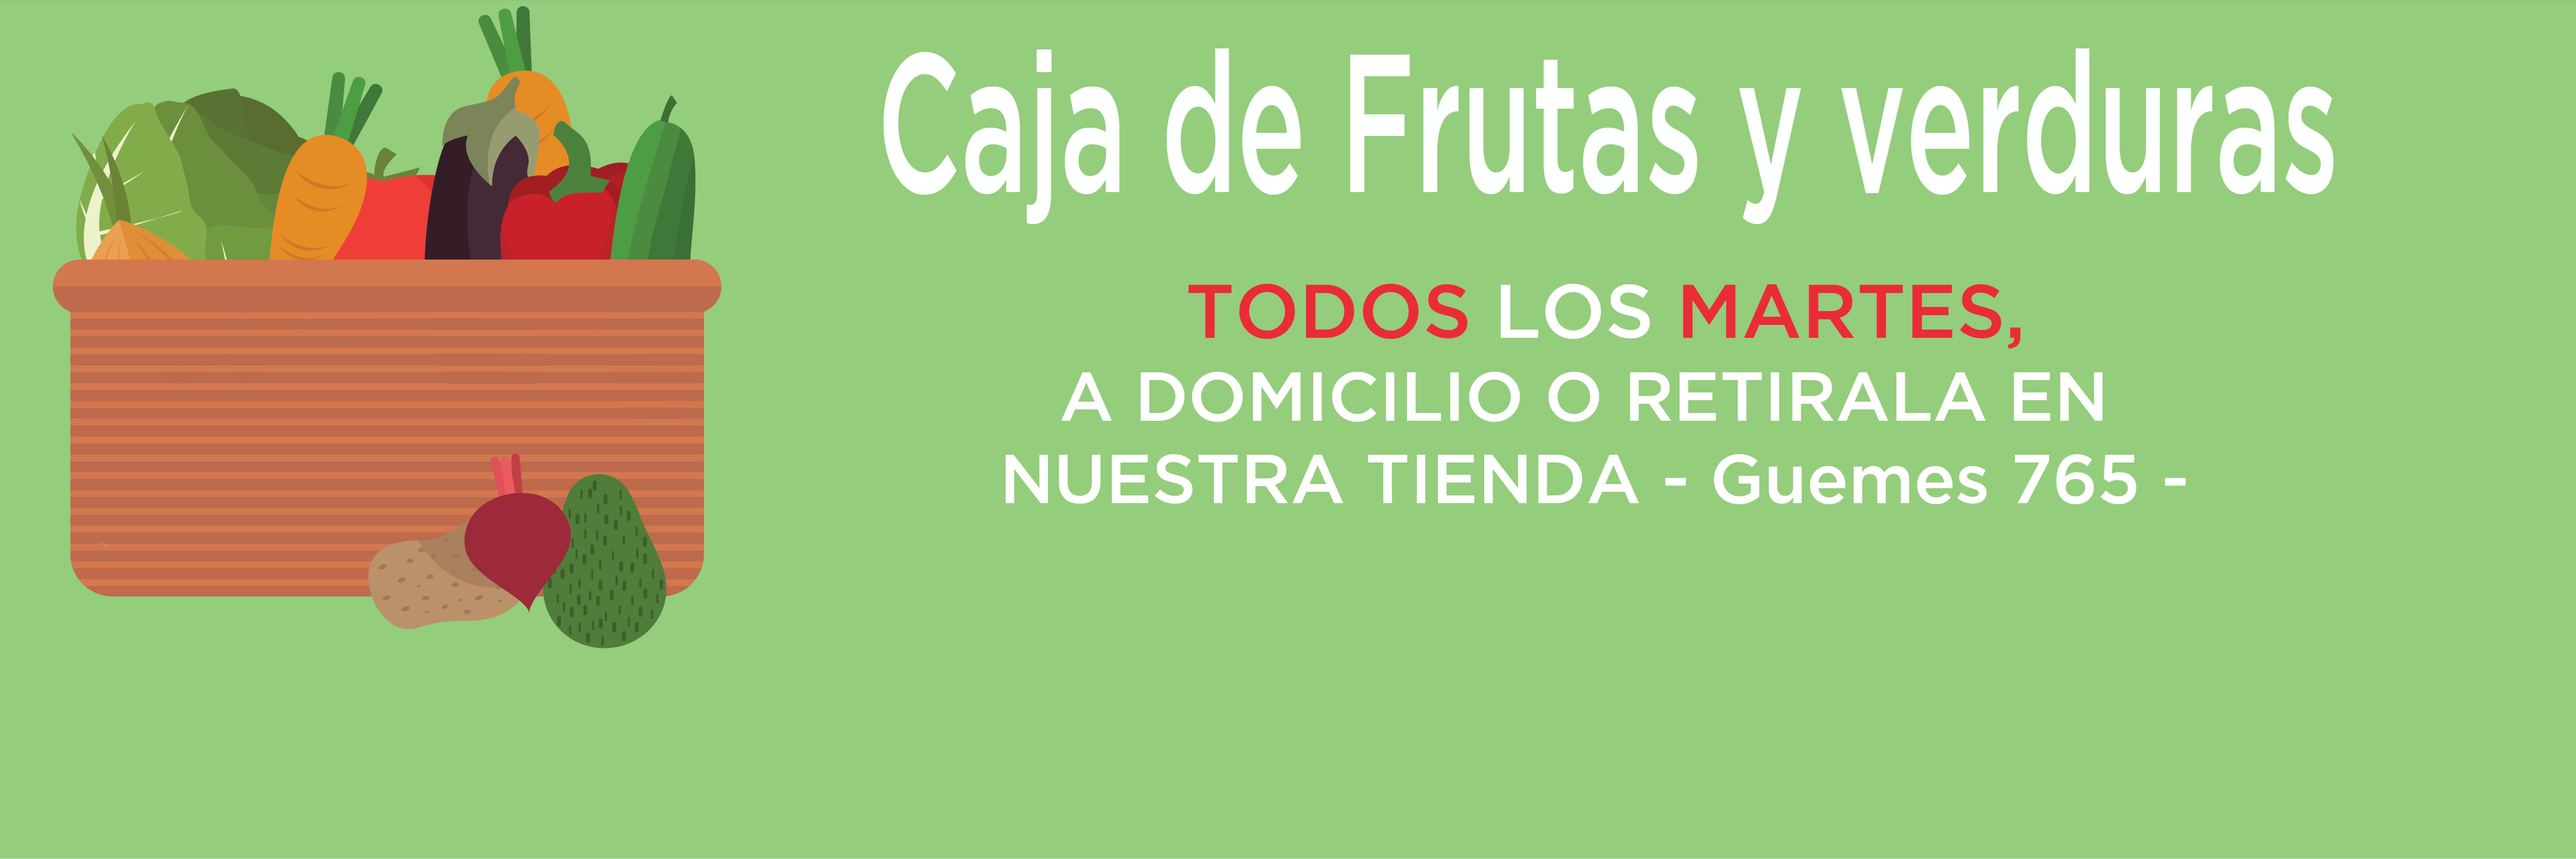
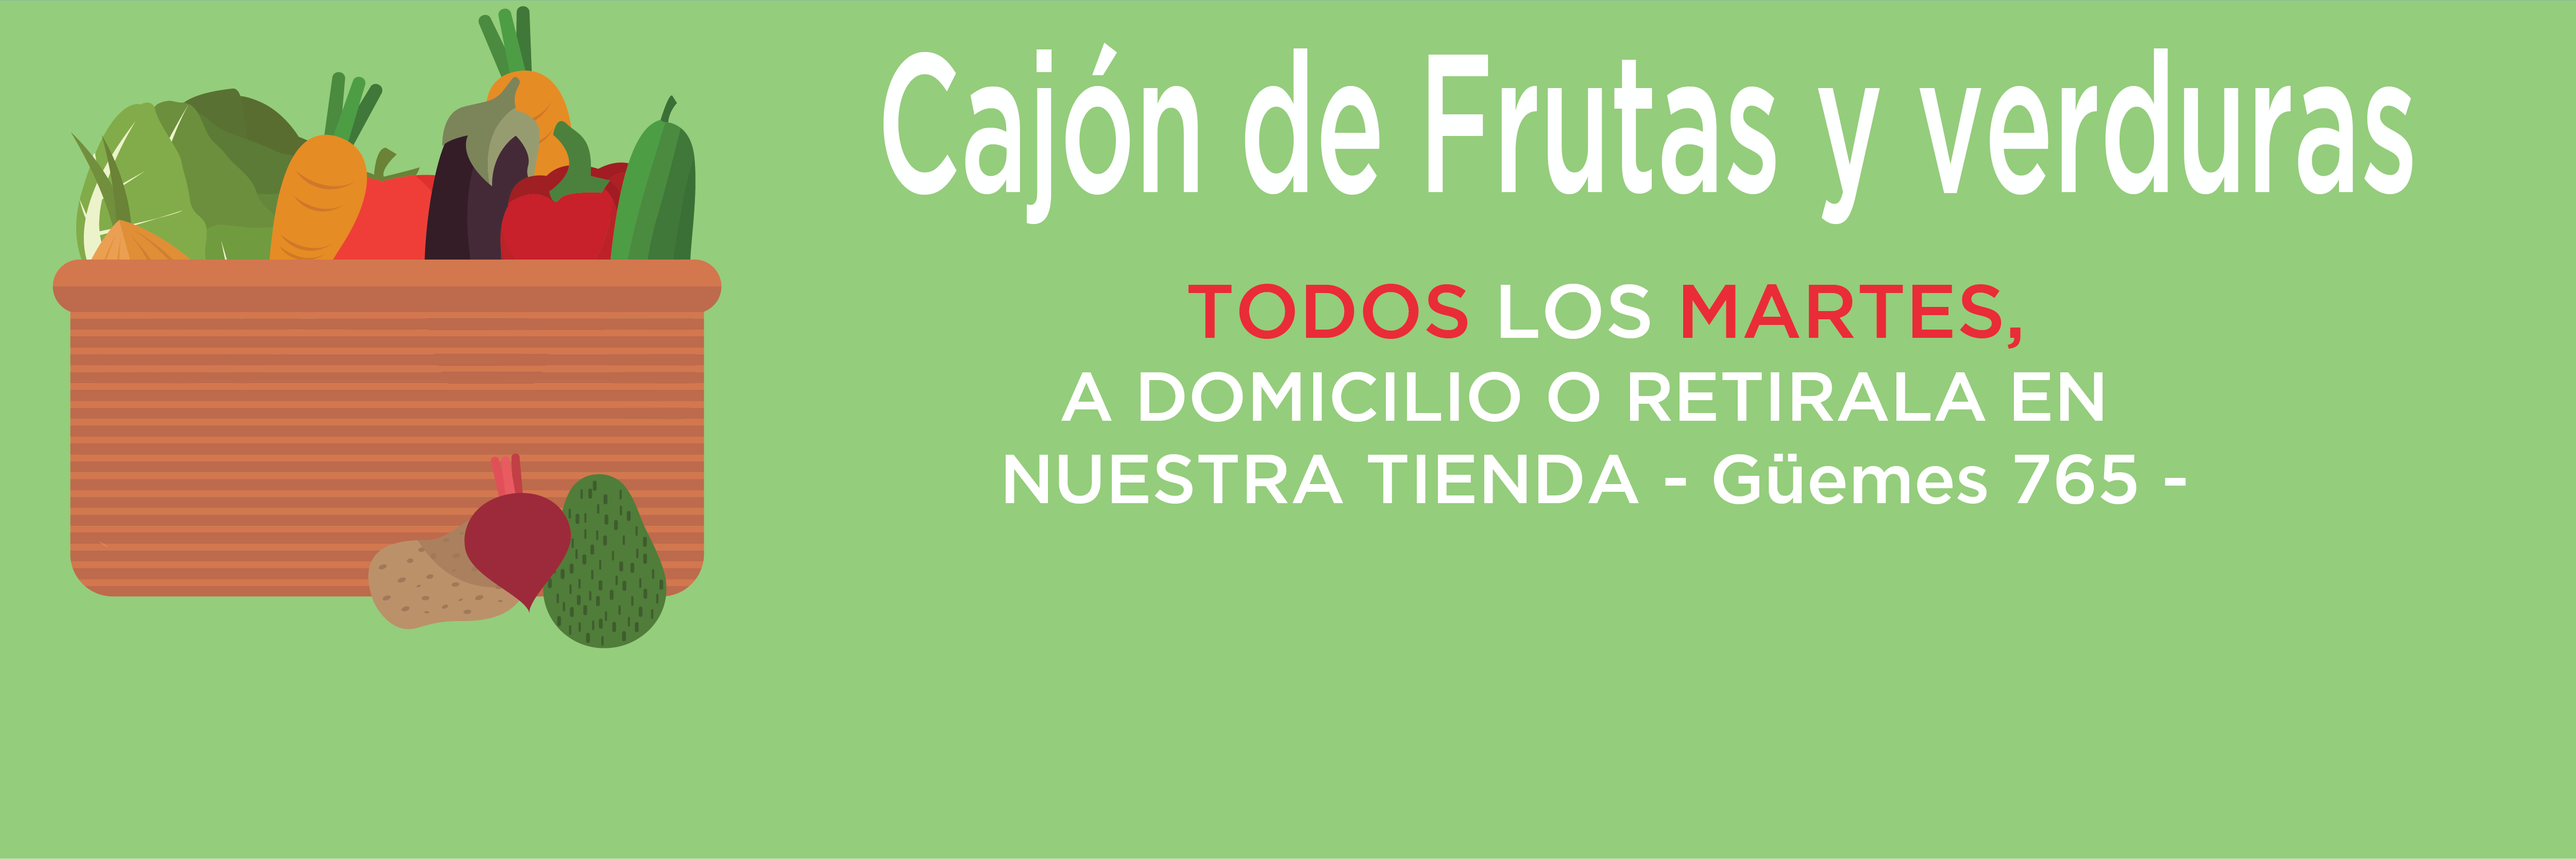
horrores ortograficos

Changed region(s): [[0.4056, 0.0624, 0.936, 0.2806]]

diff --git a/src/components/common/products/ProductList.js b/src/components/common/products/ProductList.js
@@ -46,15 +46,15 @@ class ProductList extends React.Component {
         let hasDescription = () => {
             return this.props.collection && this.props.collection.description && this.props.collection.description[intlStore.getCurrentLocale()];
         };
-        let isCajonCollection;
+        let isCajonCollection = false;
 
         if (this.props.collection) {
-          isCajonCollection = this.props.collection.name.es == 'Cajon de F&V' ? true : false;
+          isCajonCollection = this.props.collection.name.es == 'Cajon' ? true : false;
         }
 
         let bannerDiv = () => {
           if (this.props.collection) {
-            if (this.props.collection.name.es == 'Cajon de F&V') {
+            if (this.props.collection.name.es == 'Cajon') {
               isCajonCollection = true;
               return (
                 <div className="verduras-banner-container"></div>
@@ -161,7 +161,7 @@ class ProductList extends React.Component {
                       <div className="product-list__container">
                           <div className="product-list__collection-description">
                               <Text weight="bold" size="small" >
-                                  Personalizá tu cajon agregandole lo que necesites aquí abajo:
+                                  ↓ Personalizá tu cajón agregandole lo que necesites aquí debajo ↓ 
                               </Text>
                           </div>
                           <div className="product-list__items">

diff --git a/src/components/common/products/ProductListItem.js b/src/components/common/products/ProductListItem.js
@@ -102,7 +102,7 @@ class ProductListItem extends React.Component {
         let intlStore = this.context.getStore(IntlStore);
 
         let productDescription = () => {
-          if (this.props.product.name.es == 'Cajon Chico') {
+          if (this.props.product.name.es == 'Cajón Chico') {
             return (
                <div className="groups-page__description">
                    <div className="groups-table">
@@ -183,7 +183,7 @@ class ProductListItem extends React.Component {
                    </div>
                </div>
              );
-          } else if (this.props.product.name.es == 'Cajon Mediano') {
+          } else if (this.props.product.name.es == 'Cajón Mediano') {
             return (
                <div className="groups-page__description">
                    <div className="groups-table">
@@ -264,7 +264,7 @@ class ProductListItem extends React.Component {
                    </div>
                </div>
              );
-          } else if (this.props.product.name.es == 'Cajon Grande') {
+          } else if (this.props.product.name.es == 'Cajón Grande') {
             return (
                <div className="groups-page__description">
                    <div className="groups-table">
